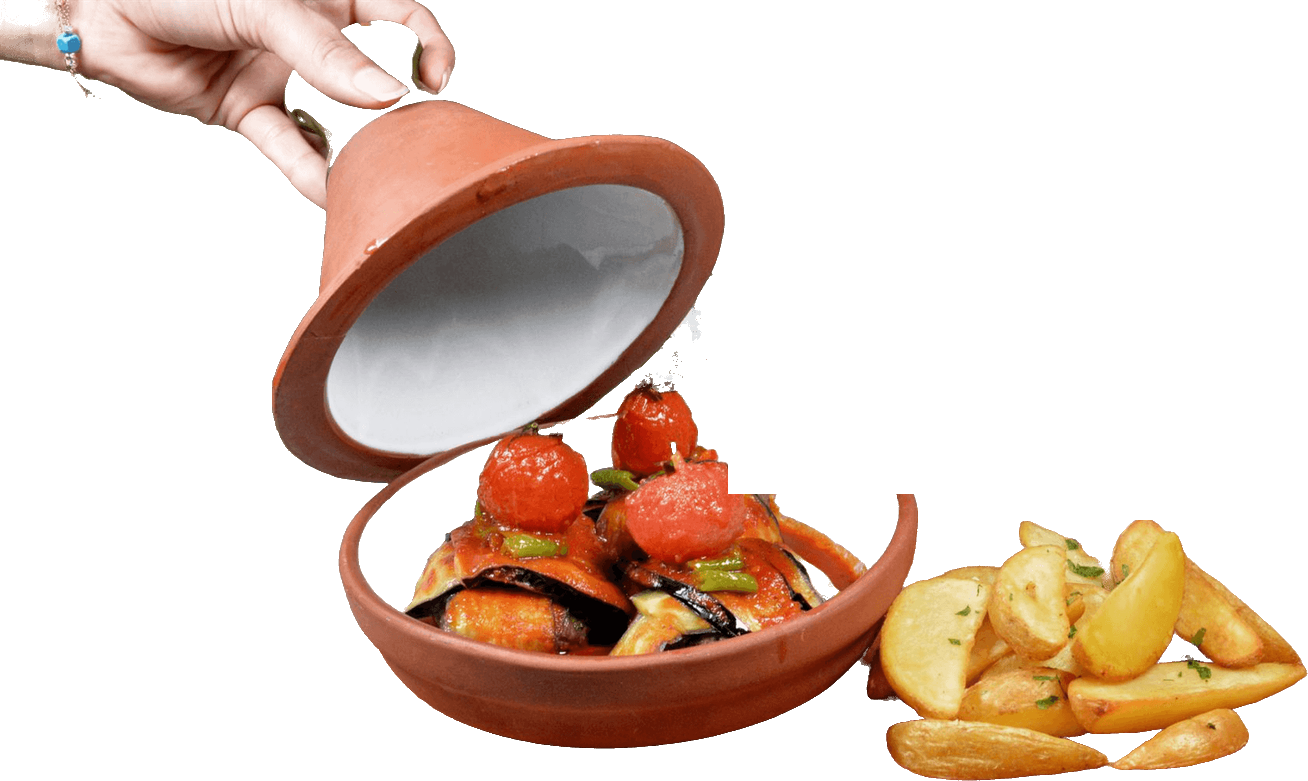
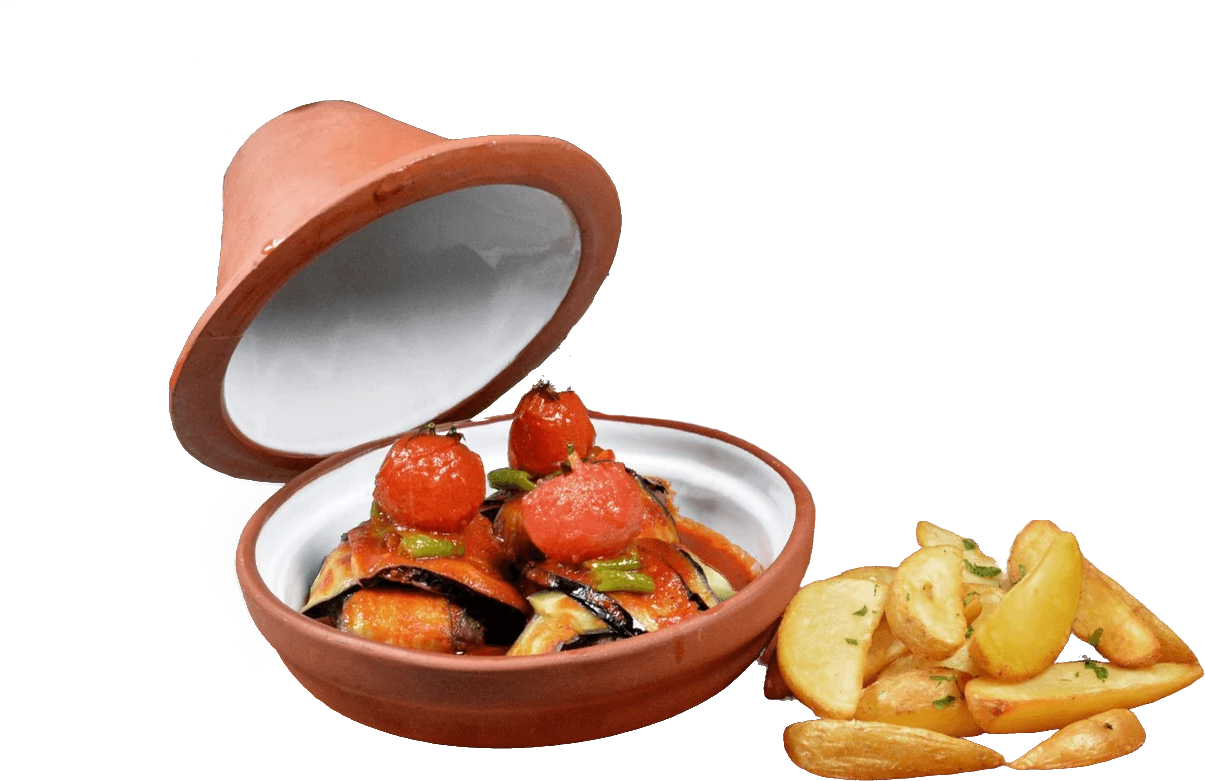
Bina çıkartması yerine cephe fotoğrafı; yeni güveç dekupesi
Kenarları bulanık kalan bina dekupesi beş yerde temiz cephe fotoğrafının
yırtık kâğıt baskısıyla değiştirildi; güveç görseli elsiz, temiz sürümle
yenilendi.

diff --git a/views/galeri.html b/views/galeri.html
@@ -14,9 +14,9 @@
       <button class="pin" type="button" data-full="/img/plate-somon.jpg" data-speed="-0.1" data-spin="4"><img class="cut" src="/img/cut/somon.png" width="1282" height="1283" alt="Izgara somon tabağı" loading="lazy"></button>
       <button class="pin pin--tall" type="button" data-full="/img/hall-stairs.jpg" data-speed="0.14" data-spin="3"><img class="print" src="/img/torn/hall-stairs.png" width="438" height="648" alt="Merdivenden salona bakış" loading="lazy"><span class="tape tape--corner"></span></button>
       <button class="pin" type="button" data-full="/img/plate-dessert.jpg" data-speed="-0.06" data-spin="-4"><img class="print" src="/img/torn/dessert.png" width="1090" height="756" alt="Karamel soslu tatlılar" loading="lazy"></button>
-      <button class="pin" type="button" data-full="/img/plate-guvec.jpg" data-speed="0.12" data-spin="-6"><img class="cut" src="/img/cut/guvec.png" width="1400" height="932" alt="Toprak güveçte İslim köfte" loading="lazy"></button>
+      <button class="pin" type="button" data-full="/img/plate-guvec.jpg" data-speed="0.12" data-spin="-6"><img class="cut" src="/img/cut/guvec.png" width="1205" height="781" alt="Toprak güveçte İslim köfte" loading="lazy"></button>
       <button class="pin pin--wide" type="button" data-full="/img/hall-tables.jpg" data-speed="-0.12" data-spin="2"><img class="print" src="/img/torn/hall-tables.png" width="937" height="644" alt="Beyaz örtülü masalar ve tuğla duvarlı salon" loading="lazy"><span class="tape tape--top"></span></button>
-      <button class="pin pin--tall" type="button" data-full="/img/facade-after.jpg" data-speed="0.1" data-spin="-3"><img class="cut sticker" src="/img/cut/building.png" width="400" height="596" alt="Chez Moi'nin taş binası" loading="lazy"></button>
+      <button class="pin pin--tall" type="button" data-full="/img/facade-after.jpg" data-speed="0.1" data-spin="-3"><img class="print" src="/img/torn/facade-after.png" width="440" height="636" alt="Chez Moi'nin taş binası" loading="lazy"></button>
       <button class="pin" type="button" data-full="/img/coffee-menu.jpg" data-speed="-0.14" data-spin="5"><img class="print" src="/img/torn/coffee-menu.png" width="1200" height="1475" alt="Kahve ve Chez Moi menüsü" loading="lazy"><span class="tape tape--corner"></span></button>
       <button class="pin" type="button" data-full="/img/plate-fettuccine.jpg" data-speed="0.06" data-spin="-5"><img class="cut" src="/img/cut/fettuccine.png" width="1361" height="1361" alt="Fettuccine Alfredo" loading="lazy"></button>
       <button class="pin pin--wide" type="button" data-full="/img/hall-corner.jpg" data-speed="-0.08" data-spin="3"><img class="print" src="/img/torn/hall-corner.png" width="1090" height="826" alt="Pencere kenarındaki yuvarlak masalar" loading="lazy"><span class="tape tape--top"></span></button>

diff --git a/views/home.html b/views/home.html
@@ -29,7 +29,7 @@
       </div>
       <div class="collage intro-collage" aria-hidden="true">
         <figure class="print ic-stairs" data-speed="0.18" data-spin="3"><img src="/img/torn/hall-stairs.png" width="438" height="648" alt="" loading="lazy"><span class="tape tape--corner"></span></figure>
-        <img class="cut sticker ic-building" src="/img/cut/building.png" width="400" height="596" alt="" loading="lazy" data-speed="-0.12" data-spin="-3">
+        <img class="print ic-building" src="/img/torn/facade-after.png" width="440" height="636" alt="" loading="lazy" data-speed="-0.12" data-spin="-3">
         <img class="cut ic-plate" src="/img/cut/fettuccine.png" width="1361" height="1361" alt="" loading="lazy" data-speed="-0.35" data-spin="40">
       </div>
     </section>
@@ -48,7 +48,7 @@
           <span class="tape tape--corner"></span>
           <figcaption class="slip">Bugün</figcaption>
         </figure>
-        <img class="cut tn-plate" src="/img/cut/guvec.png" width="1400" height="932" alt="" loading="lazy" data-speed="-0.25" data-spin="-14">
+        <img class="cut tn-plate" src="/img/cut/guvec.png" width="1205" height="781" alt="" loading="lazy" data-speed="-0.25" data-spin="-14">
       </div>
       <p class="then-now-text" data-reveal>Mumhane Caddesi'ndeki taş bina yıllarca boş kaldı. Kat kat onarıldı ve 2016'da Chez Moi olarak yeniden açıldı.</p>
     </section>
@@ -92,7 +92,7 @@
           <figcaption class="tag" data-dish="i036">{{DISH:i036}}</figcaption>
         </figure>
         <figure class="plate p2" data-speed="0.12" data-spin="-14">
-          <img class="cut" src="/img/cut/guvec.png" width="1400" height="932" alt="Toprak güveçte İslim köfte ve elma dilim patates" loading="lazy">
+          <img class="cut" src="/img/cut/guvec.png" width="1205" height="781" alt="Toprak güveçte İslim köfte ve elma dilim patates" loading="lazy">
           <figcaption class="tag" data-dish="i051">{{DISH:i051}}</figcaption>
         </figure>
         <figure class="plate p3" data-speed="-0.28" data-spin="22">
@@ -131,7 +131,7 @@
         <a class="link-arrow" href="/iletisim" data-reveal>Yol tarifi ve iletişim</a>
       </div>
       <div class="collage visit-collage" aria-hidden="true">
-        <img class="cut sticker vc-building" src="/img/cut/building.png" width="400" height="596" alt="" loading="lazy" data-speed="-0.15" data-spin="4">
+        <img class="print vc-building" src="/img/torn/facade-after.png" width="440" height="636" alt="" loading="lazy" data-speed="-0.15" data-spin="4">
         <img class="cut vc-plate" src="/img/cut/antrikot.png" width="1156" height="1086" alt="" loading="lazy" data-speed="0.25" data-spin="-30">
       </div>
     </section>

diff --git a/views/hakkimizda.html b/views/hakkimizda.html
@@ -5,7 +5,7 @@
       </div>
       <div class="collage page-collage" aria-hidden="true">
         <figure class="print ph-a" data-speed="0.15" data-spin="-4"><img src="/img/torn/hall-long.png" width="928" height="639" alt=""><span class="tape tape--top"></span></figure>
-        <img class="cut sticker ph-b" src="/img/cut/building.png" width="400" height="596" alt="" data-speed="-0.2" data-spin="5">
+        <img class="print ph-b" src="/img/torn/facade-after.png" width="440" height="636" alt="" data-speed="-0.2" data-spin="5">
         <img class="cut ph-c" src="/img/cut/sauce.png" width="877" height="1361" alt="" data-speed="0.3" data-spin="-10">
       </div>
     </section>
@@ -35,7 +35,7 @@
             <span class="cap-after">Bugün</span>
           </figcaption>
         </figure>
-        <img class="cut restore-aside" src="/img/cut/guvec.png" width="1400" height="932" alt="" loading="lazy">
+        <img class="cut restore-aside" src="/img/cut/guvec.png" width="1205" height="781" alt="" loading="lazy">
       </div>
     </section>
 

diff --git a/views/menu.html b/views/menu.html
@@ -19,7 +19,7 @@
         {{MENU}}
       </div>
       <aside class="menu-aside" aria-hidden="true">
-        <img class="cut ma-a" src="/img/cut/guvec.png" width="1400" height="932" alt="" loading="lazy" data-speed="-0.2" data-spin="-12">
+        <img class="cut ma-a" src="/img/cut/guvec.png" width="1205" height="781" alt="" loading="lazy" data-speed="-0.2" data-spin="-12">
         <img class="cut ma-b" src="/img/cut/antrikot.png" width="1156" height="1086" alt="" loading="lazy" data-speed="0.1" data-spin="20">
         <img class="cut ma-c" src="/img/cut/salad-bowl.png" width="936" height="940" alt="" loading="lazy" data-speed="-0.35" data-spin="-30">
         <figure class="print ma-d" data-speed="0.2" data-spin="4"><img src="/img/torn/dessert.png" width="1090" height="756" alt="" loading="lazy"><span class="tape tape--top"></span></figure>

diff --git a/views/iletisim.html b/views/iletisim.html
@@ -4,7 +4,7 @@
         <p class="page-lede">Karaköy'de, Mumhane Caddesi'nde. Rezervasyon için arayın ya da yazın.</p>
       </div>
       <div class="collage page-collage" aria-hidden="true">
-        <img class="cut sticker ch-a" src="/img/cut/building.png" width="400" height="596" alt="" data-speed="-0.15" data-spin="4">
+        <img class="print ch-a" src="/img/torn/facade-after.png" width="440" height="636" alt="" data-speed="-0.15" data-spin="4">
         <figure class="print ch-b" data-speed="0.2" data-spin="-5"><img src="/img/torn/coffee-menu.png" width="1200" height="1475" alt=""><span class="tape tape--top"></span></figure>
       </div>
     </section>

diff --git a/public/css/site.css b/public/css/site.css
@@ -173,7 +173,7 @@ body[data-page="home"] .site-header:not(.is-solid) .logo-light { display: block;
 .intro-text p:not(.statement) { max-width: 46ch; }
 .intro-collage { grid-column: 7 / span 6; min-height: clamp(420px, 48vw, 720px); }
 .ic-stairs { left: 0; top: 2%; width: 44%; rotate: -5deg; }
-.ic-building { right: 4%; top: -4%; width: 46%; rotate: 3deg; z-index: 1; }
+.ic-building { right: 2%; top: 30%; width: 40%; rotate: 4deg; z-index: 1; }
 .ic-plate { left: 24%; bottom: -8%; width: 50%; z-index: 2; }
 
 /* ================= THEN / NOW (red field) ================= */
